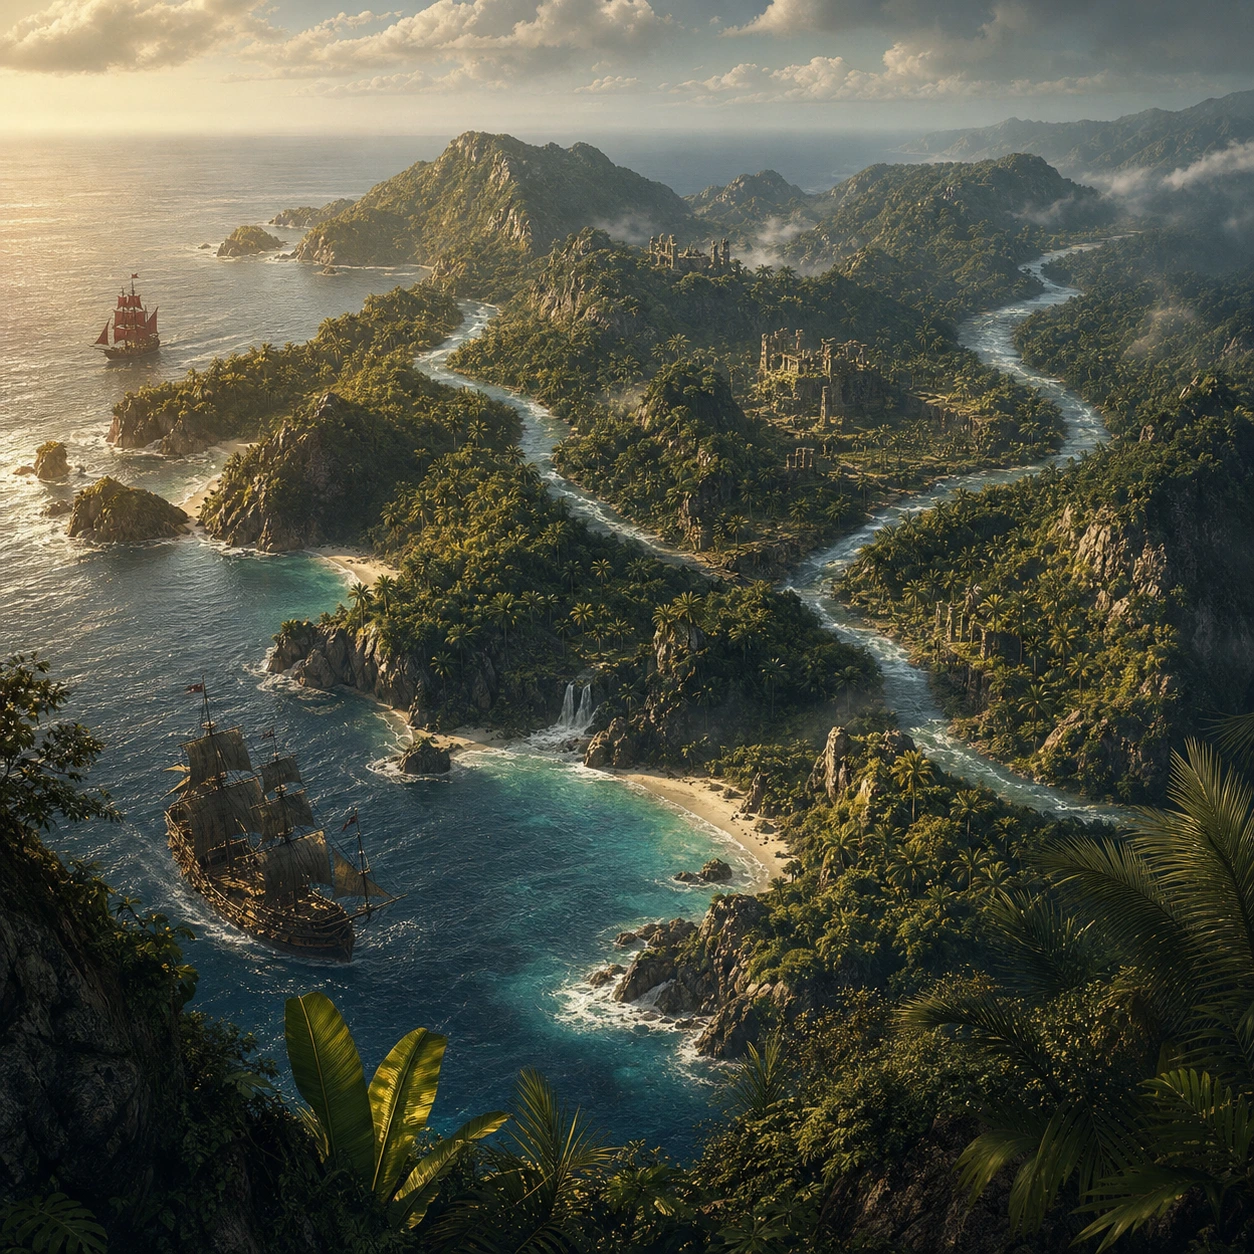
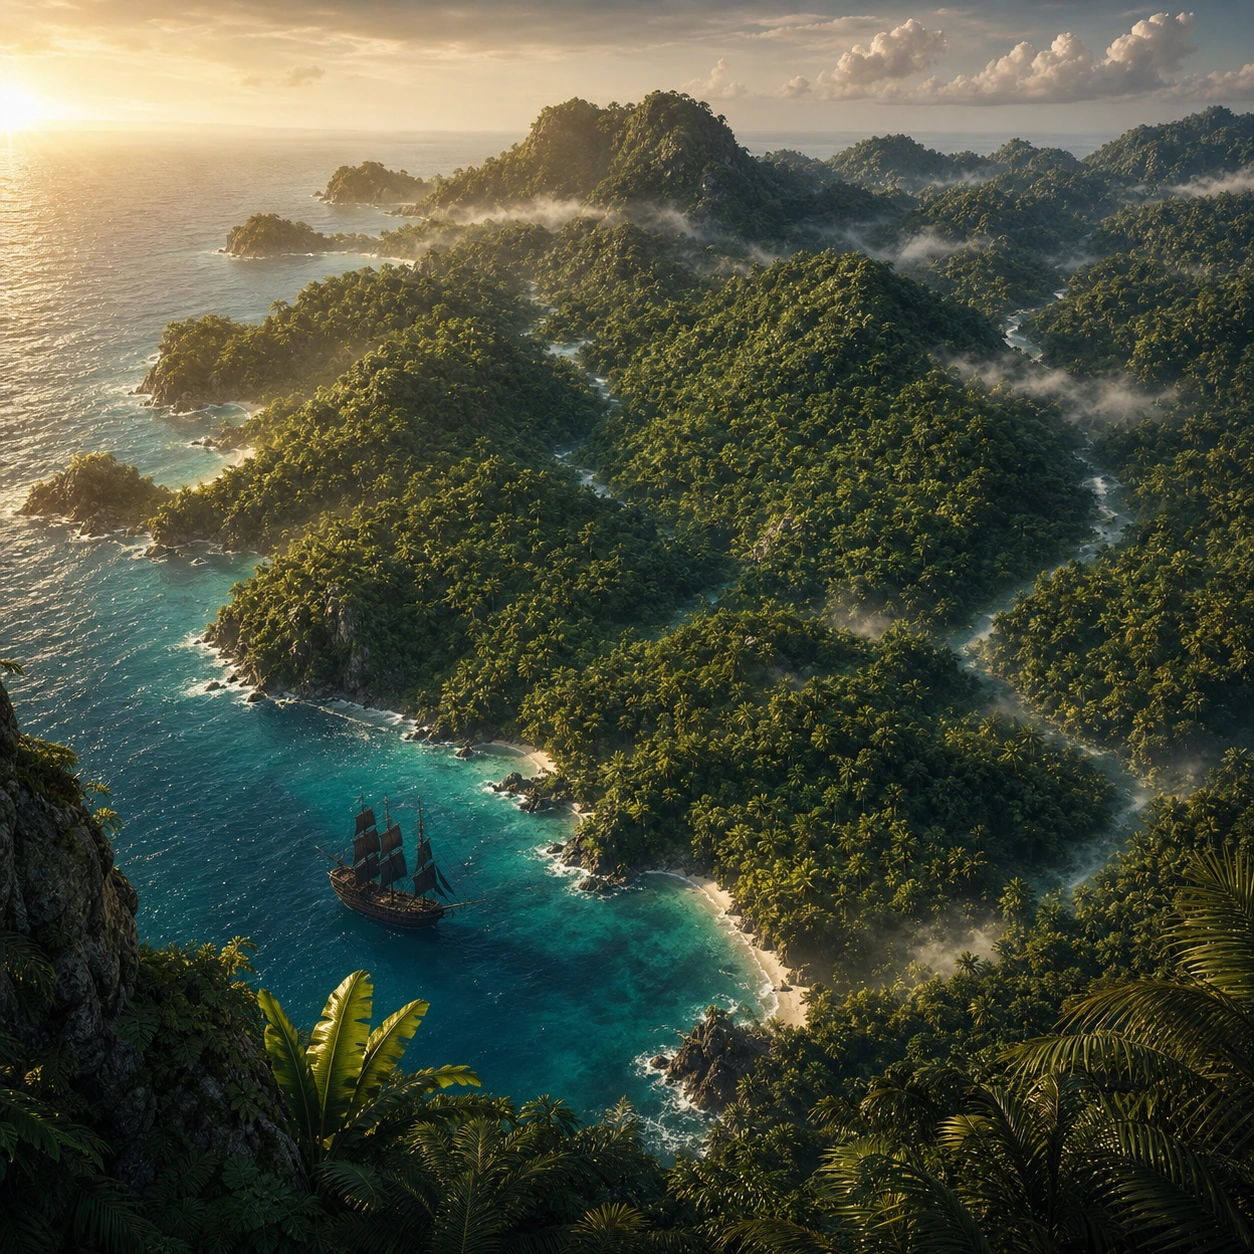
Updated act 01

diff --git a/diari/capitol01/acte01/acte01.md b/diari/capitol01/acte01/acte01.md
@@ -15,7 +15,9 @@ Des de la barra de la taverna, vaig observar com els primers rajos de llum es fi
 
 Amb els records de la nit anterior encara vius, vaig sortir de la taverna amb els altres viatgers. A la plaça del poble, entre mercaders i artesans, cercàrem les eines per a la nostra imminent expedició: espases brillants, escuts robustos i artefactes prometedors. Tot allò tenia l’aparença d’un mercat qualsevol, però sota el crit dels venedors i el dring dels metalls hi bategava una urgència que cap de nosaltres no gosava pronunciar massa alt.
 
-Al moll, on les onades besaven la fusta dels vaixells amb tendresa, la companyia d’Alarik Dantés ens esperava. Els mariners anaven i venien amb aquella pressa ordenada que només tenen els homes avesats al mar: cordes tibants, caixes carregades a l’espatlla, ordres breus que el vent s’enduia abans que poguessin caure a terra. En pujar a bord, vaig mirar enrere un instant. Les teulades del poble, encara humides de matinada, semblaren encongir-se darrere nostre com si ja pertanyessin a una vida anterior.
+Al moll, on les onades besaven la fusta dels vaixells amb tendresa, la companyia d’Alarik Dantés ens esperava. Els mariners anaven i venien amb aquella pressa ordenada que només tenen els homes avesats al mar: cordes tibants, caixes carregades a l’espatlla, ordres breus que el vent s’enduia abans que poguessin caure a terra. Darrere d’ells s’alçava el Corazón Sombrío, un galió de fusta tan fosca que semblava haver estat tallat d’una nit antiga. Les seves veles negres, encara recollides, penjaven dels pals com ales adormides, i la proa barroca, gastada per la sal, tenia aquella mena de bellesa severa que no promet comoditat, sinó travessia. En pujar a bord, vaig mirar enrere un instant. Les teulades del poble, encara humides de matinada, semblaren encongir-se darrere nostre com si ja pertanyessin a una vida anterior.
+
+![corazon sombrio moll]({{ '/diari/capitol01/acte01/corazon-sombrio-moll.webp' | relative_url }})
 
 Salpàrem amb la llum encara baixa, i durant les primeres hores el Setè Mar ens rebé amb una calma que em semblà gairebé desconfiada. La vela s’inflà sobre els nostres caps, la fusta gemegà sota els peus i la costa quedà reduïda a una línia pàl·lida entre la boira i el record. Alguns parlaven poc; d’altres fingien revisar armes o corretges ja revisades. Jo, incapaç d’allunyar del tot el pensament de la Luna, vaig deixar que el moviment de l’aigua em marcés el pas de les hores.
 
@@ -23,10 +25,10 @@ El nostre primer viatge ens portaria a una illa misteriosa, una terra verge on t
 
 ![illa misteriosa]({{ '/diari/capitol01/acte01/illa-misteriosa.webp' | relative_url }})
 
-Fou aleshores, mentre la caravela s’apropava a aquella costa, que una imponent figura aparegué a l’horitzó: un vaixell de casc vermell amb les veles inflades pel vent, tan roges com la sang dels valents. Era el vaixell de Sigurd Ragnarson, un nom que ressonava amb respecte i temor entre els mariners. Alonso de la Vega, el contramaestre, ens cridà amb una veu que tallà el vent:
+Fou aleshores, mentre el galió s’apropava a aquella costa, que una imponent figura aparegué a l’horitzó, mig amagada rere un illot proper: un galió de casc carmesí, amb les veles recollides i la fusta roja com la sang dels valents. Encara en desconeixíem el nom, i per això, entre nosaltres, no trigà a convertir-se en el Galió Carmesí. Era el galió de Sigurd Ragnarson, un nom que ressonava amb respecte i temor entre els mariners. Alonso de la Vega, el contramaestre, ens cridà amb una veu que tallà el vent:
 
-—Atenció, companys! Aquell és el vaixell de Ragnarson. No podem permetre que la seva tripulació trepitgi les ruïnes abans que nosaltres. La glòria i el tresor de Syrne han de ser nostres!
+—Atenció, companys! Aquell és el galió de Ragnarson. No podem permetre que la seva tripulació trepitgi les ruïnes abans que nosaltres. La glòria i el tresor de Syrne han de ser nostres!
 
-![vaixell vermell]({{ '/diari/capitol01/acte01/vaixell-vermell.webp' | relative_url }})
+![galio carmesi]({{ '/diari/capitol01/acte01/vaixell-vermell.webp' | relative_url }})
 
 Amb aquelles paraules, una nova determinació encengué els nostres cors. La calma del viatge s’esberlà com una corda massa tibada, i tot prengué de sobte una forma més clara: ja no navegàvem només cap a unes ruïnes, sinó contra uns altres homes, contra el temps i contra l’ombra d’un nom que feia abaixar la veu als mariners. La cursa per Syrne havia començat, i jo estava decidit a liderar-nos cap a la victòria.